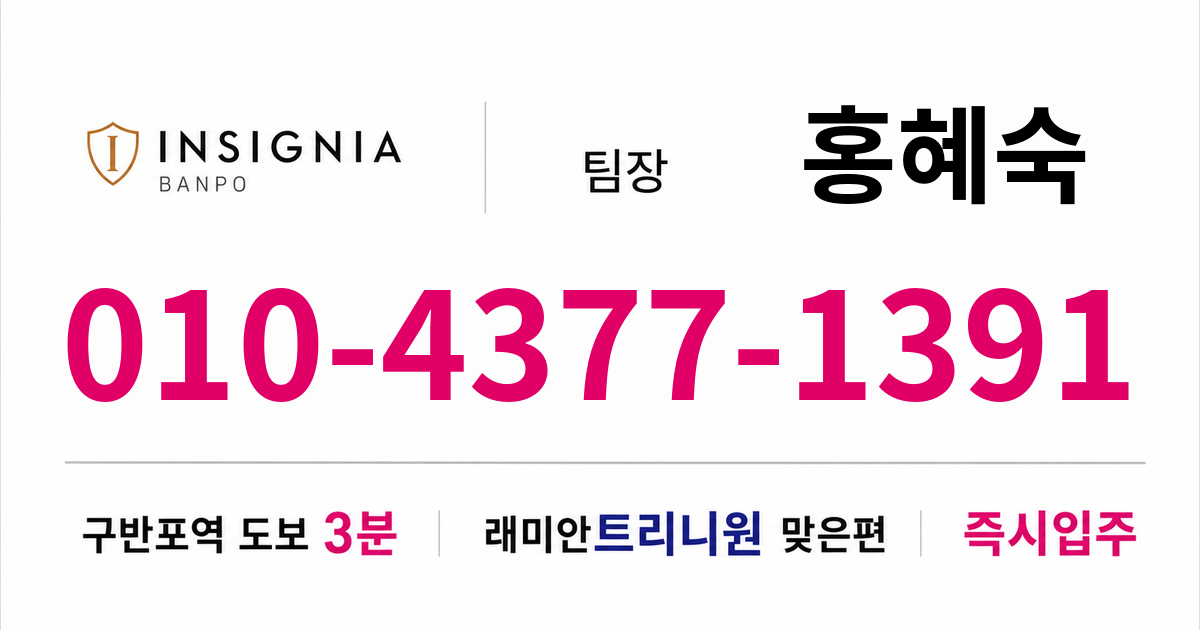
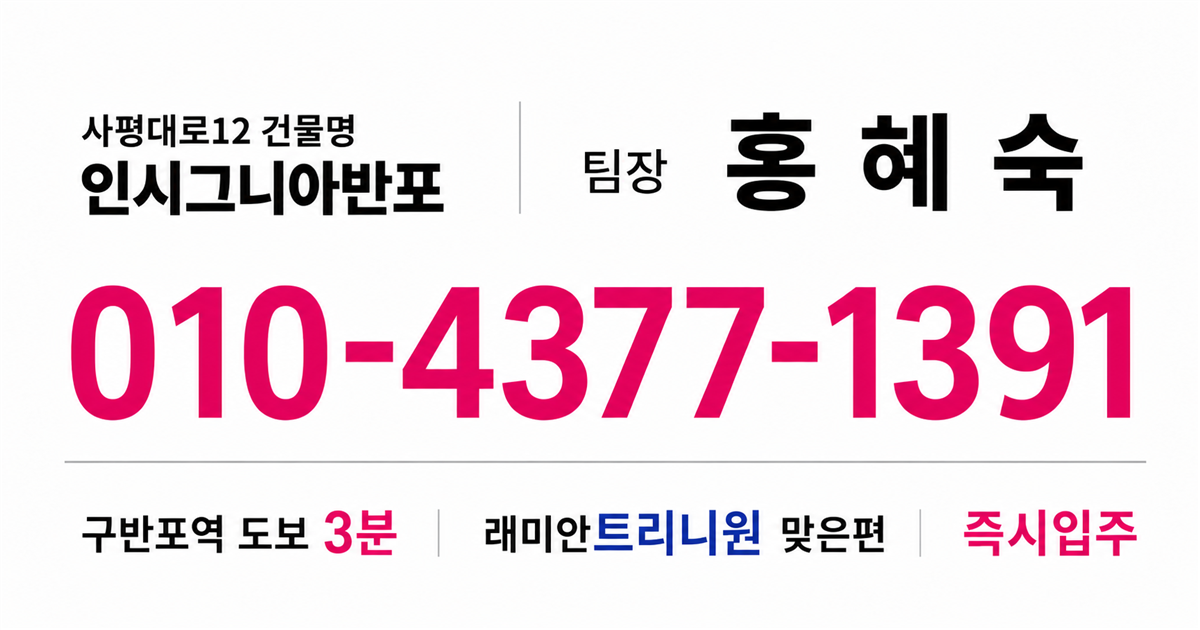
Standardize staff homecard headers and OG cards; preserve realtor cards

diff --git a/jangyoonjung/index.html b/jangyoonjung/index.html
@@ -8,7 +8,7 @@
 <meta property="og:type" content="website">
 <meta property="og:title" content="인시그니아 반포 | 장윤정 팀장">
 <meta property="og:description" content="반포 신축 3룸 아파텔 · 상세 정보 보기">
-<meta property="og:image" content="https://sanghoon0819.github.io/mobile-namecard/jangyoonjung/og-card-jangyoonjung.png">
+<meta property="og:image" content="https://homecard.kr/jangyoonjung/og-card-jangyoonjung.png?v=20261011-brand">
 <meta property="og:url" content="https://sanghoon0819.github.io/mobile-namecard/jangyoonjung/">
 
 <style>
@@ -31,8 +31,11 @@ body{
 .page{max-width:560px;margin:0 auto;background:#fff;min-height:100vh;box-shadow:0 0 28px rgba(0,0,0,.05)}
 .header{padding:18px 16px 14px;border-top:4px solid var(--bronze)}
 .brandrow{display:flex;align-items:flex-start;justify-content:space-between;gap:12px}
-.brand{font-weight:900;letter-spacing:2.4px;font-size:19px;line-height:1.05}
-.brand small{display:block;font-size:8px;letter-spacing:3.5px;color:#777;margin-top:4px}
+.brand{font-weight:900;letter-spacing:0;font-size:19px;line-height:1.25;white-space:nowrap}
+.brand small{display:block;font-size:11px;font-weight:600;letter-spacing:0;color:#777;margin-bottom:5px}
+.brandrow .person{flex-shrink:0}
+@media(max-width:390px){.brand{font-size:17px}.brand small{font-size:10px}}
+@media(max-width:340px){.brandrow{gap:10px}.brand{font-size:16px}.brandrow .phone{font-size:18px}}
 .person{text-align:right}
 .role{font-size:11px;font-weight:700;color:#333}
 .name{font-size:25px;font-weight:900;line-height:1.08;white-space:nowrap}
@@ -140,7 +143,7 @@ document.addEventListener('DOMContentLoaded',()=>{
 
 <section class="header">
   <div class="brandrow">
-    <div class="brand">INSIGNIA<small>BANPO</small></div>
+    <div class="brand"><small>사평대로12 건물명</small>인시그니아반포</div>
     <div class="person">
       <div class="role">팀장</div>
       <div class="name">장윤정</div>

diff --git a/parkhyunjoo/index.html b/parkhyunjoo/index.html
@@ -8,7 +8,7 @@
 <meta property="og:type" content="website">
 <meta property="og:title" content="인시그니아 반포 | 박현주 팀장">
 <meta property="og:description" content="반포 신축 3룸 아파텔 · 상세 정보 보기">
-<meta property="og:image" content="https://sanghoon0819.github.io/mobile-namecard/parkhyunjoo/og-card-parkhyunjoo.png">
+<meta property="og:image" content="https://homecard.kr/parkhyunjoo/og-card-parkhyunjoo.png?v=20261011-brand">
 <meta property="og:url" content="https://sanghoon0819.github.io/mobile-namecard/parkhyunjoo/">
 
 <style>
@@ -31,8 +31,11 @@ body{
 .page{max-width:560px;margin:0 auto;background:#fff;min-height:100vh;box-shadow:0 0 28px rgba(0,0,0,.05)}
 .header{padding:18px 16px 14px;border-top:4px solid var(--bronze)}
 .brandrow{display:flex;align-items:flex-start;justify-content:space-between;gap:12px}
-.brand{font-weight:900;letter-spacing:2.4px;font-size:19px;line-height:1.05}
-.brand small{display:block;font-size:8px;letter-spacing:3.5px;color:#777;margin-top:4px}
+.brand{font-weight:900;letter-spacing:0;font-size:19px;line-height:1.25;white-space:nowrap}
+.brand small{display:block;font-size:11px;font-weight:600;letter-spacing:0;color:#777;margin-bottom:5px}
+.brandrow .person{flex-shrink:0}
+@media(max-width:390px){.brand{font-size:17px}.brand small{font-size:10px}}
+@media(max-width:340px){.brandrow{gap:10px}.brand{font-size:16px}.brandrow .phone{font-size:18px}}
 .person{text-align:right}
 .role{font-size:11px;font-weight:700;color:#333}
 .name{font-size:25px;font-weight:900;line-height:1.08;white-space:nowrap}
@@ -140,7 +143,7 @@ document.addEventListener('DOMContentLoaded',()=>{
 
 <section class="header">
   <div class="brandrow">
-    <div class="brand">INSIGNIA<small>BANPO</small></div>
+    <div class="brand"><small>사평대로12 건물명</small>인시그니아반포</div>
     <div class="person">
       <div class="role">팀장</div>
       <div class="name">박현주</div>

diff --git a/yoonseohyun/index.html b/yoonseohyun/index.html
@@ -8,7 +8,7 @@
 <meta property="og:type" content="website">
 <meta property="og:title" content="인시그니아 반포 | 윤서현 팀장">
 <meta property="og:description" content="반포 신축 3룸 아파텔 · 상세 정보 보기">
-<meta property="og:image" content="https://sanghoon0819.github.io/mobile-namecard/yoonseohyun/og-card-yoonseohyun.png">
+<meta property="og:image" content="https://homecard.kr/yoonseohyun/og-card-yoonseohyun.png?v=20261011-brand">
 <meta property="og:url" content="https://sanghoon0819.github.io/mobile-namecard/yoonseohyun/">
 
 <style>
@@ -31,8 +31,11 @@ body{
 .page{max-width:560px;margin:0 auto;background:#fff;min-height:100vh;box-shadow:0 0 28px rgba(0,0,0,.05)}
 .header{padding:18px 16px 14px;border-top:4px solid var(--bronze)}
 .brandrow{display:flex;align-items:flex-start;justify-content:space-between;gap:12px}
-.brand{font-weight:900;letter-spacing:2.4px;font-size:19px;line-height:1.05}
-.brand small{display:block;font-size:8px;letter-spacing:3.5px;color:#777;margin-top:4px}
+.brand{font-weight:900;letter-spacing:0;font-size:19px;line-height:1.25;white-space:nowrap}
+.brand small{display:block;font-size:11px;font-weight:600;letter-spacing:0;color:#777;margin-bottom:5px}
+.brandrow .person{flex-shrink:0}
+@media(max-width:390px){.brand{font-size:17px}.brand small{font-size:10px}}
+@media(max-width:340px){.brandrow{gap:10px}.brand{font-size:16px}.brandrow .phone{font-size:18px}}
 .person{text-align:right}
 .role{font-size:11px;font-weight:700;color:#333}
 .name{font-size:25px;font-weight:900;line-height:1.08;white-space:nowrap}
@@ -140,7 +143,7 @@ document.addEventListener('DOMContentLoaded',()=>{
 
 <section class="header">
   <div class="brandrow">
-    <div class="brand">INSIGNIA<small>BANPO</small></div>
+    <div class="brand"><small>사평대로12 건물명</small>인시그니아반포</div>
     <div class="person">
       <div class="role">팀장</div>
       <div class="name">윤서현</div>

diff --git a/honghyesuk/index.html b/honghyesuk/index.html
@@ -8,7 +8,7 @@
 <meta property="og:type" content="website">
 <meta property="og:title" content="인시그니아 반포 | 홍혜숙 팀장">
 <meta property="og:description" content="반포 신축 3룸 아파텔 · 상세 정보 보기">
-<meta property="og:image" content="https://sanghoon0819.github.io/mobile-namecard/honghyesuk/og-card-honghyesuk.png">
+<meta property="og:image" content="https://homecard.kr/honghyesuk/og-card-honghyesuk.png?v=20261011-brand">
 <meta property="og:url" content="https://sanghoon0819.github.io/mobile-namecard/honghyesuk/">
 
 <style>
@@ -31,8 +31,11 @@ body{
 .page{max-width:560px;margin:0 auto;background:#fff;min-height:100vh;box-shadow:0 0 28px rgba(0,0,0,.05)}
 .header{padding:18px 16px 14px;border-top:4px solid var(--bronze)}
 .brandrow{display:flex;align-items:flex-start;justify-content:space-between;gap:12px}
-.brand{font-weight:900;letter-spacing:2.4px;font-size:19px;line-height:1.05}
-.brand small{display:block;font-size:8px;letter-spacing:3.5px;color:#777;margin-top:4px}
+.brand{font-weight:900;letter-spacing:0;font-size:19px;line-height:1.25;white-space:nowrap}
+.brand small{display:block;font-size:11px;font-weight:600;letter-spacing:0;color:#777;margin-bottom:5px}
+.brandrow .person{flex-shrink:0}
+@media(max-width:390px){.brand{font-size:17px}.brand small{font-size:10px}}
+@media(max-width:340px){.brandrow{gap:10px}.brand{font-size:16px}.brandrow .phone{font-size:18px}}
 .person{text-align:right}
 .role{font-size:11px;font-weight:700;color:#333}
 .name{font-size:25px;font-weight:900;line-height:1.08;white-space:nowrap}
@@ -140,7 +143,7 @@ document.addEventListener('DOMContentLoaded',()=>{
 
 <section class="header">
   <div class="brandrow">
-    <div class="brand">INSIGNIA<small>BANPO</small></div>
+    <div class="brand"><small>사평대로12 건물명</small>인시그니아반포</div>
     <div class="person">
       <div class="role">팀장</div>
       <div class="name">홍혜숙</div>

diff --git a/kimbokyeom/index.html b/kimbokyeom/index.html
@@ -8,7 +8,7 @@
 <meta property="og:type" content="website">
 <meta property="og:title" content="인시그니아 반포 | 김보겸 팀장">
 <meta property="og:description" content="반포 신축 3룸 아파텔 · 상세 정보 보기">
-<meta property="og:image" content="https://sanghoon0819.github.io/mobile-namecard/kimbokyeom/og-card-kimbokyeom.png">
+<meta property="og:image" content="https://homecard.kr/kimbokyeom/og-card-kimbokyeom.png?v=20261011-brand">
 <meta property="og:url" content="https://sanghoon0819.github.io/mobile-namecard/kimbokyeom/">
 
 <style>
@@ -31,8 +31,11 @@ body{
 .page{max-width:560px;margin:0 auto;background:#fff;min-height:100vh;box-shadow:0 0 28px rgba(0,0,0,.05)}
 .header{padding:18px 16px 14px;border-top:4px solid var(--bronze)}
 .brandrow{display:flex;align-items:flex-start;justify-content:space-between;gap:12px}
-.brand{font-weight:900;letter-spacing:2.4px;font-size:19px;line-height:1.05}
-.brand small{display:block;font-size:8px;letter-spacing:3.5px;color:#777;margin-top:4px}
+.brand{font-weight:900;letter-spacing:0;font-size:19px;line-height:1.25;white-space:nowrap}
+.brand small{display:block;font-size:11px;font-weight:600;letter-spacing:0;color:#777;margin-bottom:5px}
+.brandrow .person{flex-shrink:0}
+@media(max-width:390px){.brand{font-size:17px}.brand small{font-size:10px}}
+@media(max-width:340px){.brandrow{gap:10px}.brand{font-size:16px}.brandrow .phone{font-size:18px}}
 .person{text-align:right}
 .role{font-size:11px;font-weight:700;color:#333}
 .name{font-size:25px;font-weight:900;line-height:1.08;white-space:nowrap}
@@ -140,7 +143,7 @@ document.addEventListener('DOMContentLoaded',()=>{
 
 <section class="header">
   <div class="brandrow">
-    <div class="brand">INSIGNIA<small>BANPO</small></div>
+    <div class="brand"><small>사평대로12 건물명</small>인시그니아반포</div>
     <div class="person">
       <div class="role">팀장</div>
       <div class="name">김보겸</div>

diff --git a/kimseohyun/index.html b/kimseohyun/index.html
@@ -8,7 +8,7 @@
 <meta property="og:type" content="website">
 <meta property="og:title" content="인시그니아 반포 | 김서현 팀장">
 <meta property="og:description" content="반포 신축 3룸 아파텔 · 상세 정보 보기">
-<meta property="og:image" content="https://sanghoon0819.github.io/mobile-namecard/kimseohyun/og-card-kimseohyun.png">
+<meta property="og:image" content="https://homecard.kr/kimseohyun/og-card-kimseohyun.png?v=20261011-brand">
 <meta property="og:url" content="https://sanghoon0819.github.io/mobile-namecard/kimseohyun/">
 
 <style>
@@ -31,8 +31,11 @@ body{
 .page{max-width:560px;margin:0 auto;background:#fff;min-height:100vh;box-shadow:0 0 28px rgba(0,0,0,.05)}
 .header{padding:18px 16px 14px;border-top:4px solid var(--bronze)}
 .brandrow{display:flex;align-items:flex-start;justify-content:space-between;gap:12px}
-.brand{font-weight:900;letter-spacing:2.4px;font-size:19px;line-height:1.05}
-.brand small{display:block;font-size:8px;letter-spacing:3.5px;color:#777;margin-top:4px}
+.brand{font-weight:900;letter-spacing:0;font-size:19px;line-height:1.25;white-space:nowrap}
+.brand small{display:block;font-size:11px;font-weight:600;letter-spacing:0;color:#777;margin-bottom:5px}
+.brandrow .person{flex-shrink:0}
+@media(max-width:390px){.brand{font-size:17px}.brand small{font-size:10px}}
+@media(max-width:340px){.brandrow{gap:10px}.brand{font-size:16px}.brandrow .phone{font-size:18px}}
 .person{text-align:right}
 .role{font-size:11px;font-weight:700;color:#333}
 .name{font-size:25px;font-weight:900;line-height:1.08;white-space:nowrap}
@@ -140,7 +143,7 @@ document.addEventListener('DOMContentLoaded',()=>{
 
 <section class="header">
   <div class="brandrow">
-    <div class="brand">INSIGNIA<small>BANPO</small></div>
+    <div class="brand"><small>사평대로12 건물명</small>인시그니아반포</div>
     <div class="person">
       <div class="role">팀장</div>
       <div class="name">김서현</div>

diff --git a/songjaebak/index.html b/songjaebak/index.html
@@ -8,7 +8,7 @@
 <meta property="og:type" content="website">
 <meta property="og:title" content="인시그니아 반포 | 송재박 팀장">
 <meta property="og:description" content="반포 신축 3룸 아파텔 · 상세 정보 보기">
-<meta property="og:image" content="https://sanghoon0819.github.io/mobile-namecard/songjaebak/og-card-songjaebak.png">
+<meta property="og:image" content="https://homecard.kr/songjaebak/og-card-songjaebak.png?v=20261011-brand">
 <meta property="og:url" content="https://sanghoon0819.github.io/mobile-namecard/songjaebak/">
 
 <style>
@@ -31,8 +31,11 @@ body{
 .page{max-width:560px;margin:0 auto;background:#fff;min-height:100vh;box-shadow:0 0 28px rgba(0,0,0,.05)}
 .header{padding:18px 16px 14px;border-top:4px solid var(--bronze)}
 .brandrow{display:flex;align-items:flex-start;justify-content:space-between;gap:12px}
-.brand{font-weight:900;letter-spacing:2.4px;font-size:19px;line-height:1.05}
-.brand small{display:block;font-size:8px;letter-spacing:3.5px;color:#777;margin-top:4px}
+.brand{font-weight:900;letter-spacing:0;font-size:19px;line-height:1.25;white-space:nowrap}
+.brand small{display:block;font-size:11px;font-weight:600;letter-spacing:0;color:#777;margin-bottom:5px}
+.brandrow .person{flex-shrink:0}
+@media(max-width:390px){.brand{font-size:17px}.brand small{font-size:10px}}
+@media(max-width:340px){.brandrow{gap:10px}.brand{font-size:16px}.brandrow .phone{font-size:18px}}
 .person{text-align:right}
 .role{font-size:11px;font-weight:700;color:#333}
 .name{font-size:25px;font-weight:900;line-height:1.08;white-space:nowrap}
@@ -140,7 +143,7 @@ document.addEventListener('DOMContentLoaded',()=>{
 
 <section class="header">
   <div class="brandrow">
-    <div class="brand">INSIGNIA<small>BANPO</small></div>
+    <div class="brand"><small>사평대로12 건물명</small>인시그니아반포</div>
     <div class="person">
       <div class="role">팀장</div>
       <div class="name">송재박</div>

diff --git a/kimminseo/index.html b/kimminseo/index.html
@@ -8,7 +8,7 @@
 <meta property="og:type" content="website">
 <meta property="og:title" content="인시그니아 반포 | 김민서 팀장">
 <meta property="og:description" content="반포 신축 3룸 아파텔 · 상세 정보 보기">
-<meta property="og:image" content="https://sanghoon0819.github.io/mobile-namecard/kimminseo/og-card-kimminseo.png">
+<meta property="og:image" content="https://homecard.kr/kimminseo/og-card-kimminseo.png?v=20261011-brand">
 <meta property="og:url" content="https://sanghoon0819.github.io/mobile-namecard/kimminseo/">
 
 <style>
@@ -31,8 +31,11 @@ body{
 .page{max-width:560px;margin:0 auto;background:#fff;min-height:100vh;box-shadow:0 0 28px rgba(0,0,0,.05)}
 .header{padding:18px 16px 14px;border-top:4px solid var(--bronze)}
 .brandrow{display:flex;align-items:flex-start;justify-content:space-between;gap:12px}
-.brand{font-weight:900;letter-spacing:2.4px;font-size:19px;line-height:1.05}
-.brand small{display:block;font-size:8px;letter-spacing:3.5px;color:#777;margin-top:4px}
+.brand{font-weight:900;letter-spacing:0;font-size:19px;line-height:1.25;white-space:nowrap}
+.brand small{display:block;font-size:11px;font-weight:600;letter-spacing:0;color:#777;margin-bottom:5px}
+.brandrow .person{flex-shrink:0}
+@media(max-width:390px){.brand{font-size:17px}.brand small{font-size:10px}}
+@media(max-width:340px){.brandrow{gap:10px}.brand{font-size:16px}.brandrow .phone{font-size:18px}}
 .person{text-align:right}
 .role{font-size:11px;font-weight:700;color:#333}
 .name{font-size:25px;font-weight:900;line-height:1.08;white-space:nowrap}
@@ -140,7 +143,7 @@ document.addEventListener('DOMContentLoaded',()=>{
 
 <section class="header">
   <div class="brandrow">
-    <div class="brand">INSIGNIA<small>BANPO</small></div>
+    <div class="brand"><small>사평대로12 건물명</small>인시그니아반포</div>
     <div class="person">
       <div class="role">팀장</div>
       <div class="name">김민서</div>

diff --git a/choiyounghyuk2/index.html b/choiyounghyuk2/index.html
@@ -8,7 +8,7 @@
 <meta property="og:type" content="website">
 <meta property="og:title" content="인시그니아 반포 | 최영혁 본부장">
 <meta property="og:description" content="반포 신축 3룸 아파텔 · 상세 정보 보기">
-<meta property="og:image" content="https://homecard.kr/choiyounghyuk2/og-card-choiyounghyuk2.png">
+<meta property="og:image" content="https://homecard.kr/choiyounghyuk2/og-card-choiyounghyuk2.png?v=20261011-brand">
 <meta property="og:url" content="https://homecard.kr/choiyounghyuk2/">
 
 <style>
@@ -31,8 +31,11 @@ body{
 .page{max-width:560px;margin:0 auto;background:#fff;min-height:100vh;box-shadow:0 0 28px rgba(0,0,0,.05)}
 .header{padding:18px 16px 14px;border-top:4px solid var(--bronze)}
 .brandrow{display:flex;align-items:flex-start;justify-content:space-between;gap:12px}
-.brand{font-weight:900;letter-spacing:2.4px;font-size:19px;line-height:1.05}
-.brand small{display:block;font-size:8px;letter-spacing:3.5px;color:#777;margin-top:4px}
+.brand{font-weight:900;letter-spacing:0;font-size:19px;line-height:1.25;white-space:nowrap}
+.brand small{display:block;font-size:11px;font-weight:600;letter-spacing:0;color:#777;margin-bottom:5px}
+.brandrow .person{flex-shrink:0}
+@media(max-width:390px){.brand{font-size:17px}.brand small{font-size:10px}}
+@media(max-width:340px){.brandrow{gap:10px}.brand{font-size:16px}.brandrow .phone{font-size:18px}}
 .person{text-align:right}
 .role{font-size:11px;font-weight:700;color:#333}
 .name{font-size:25px;font-weight:900;line-height:1.08;white-space:nowrap}
@@ -140,7 +143,7 @@ document.addEventListener('DOMContentLoaded',()=>{
 
 <section class="header">
   <div class="brandrow">
-    <div class="brand">INSIGNIA<small>BANPO</small></div>
+    <div class="brand"><small>사평대로12 건물명</small>인시그니아반포</div>
     <div class="person">
       <div class="role">본부장</div>
       <div class="name">최영혁</div>

diff --git a/jungmiryoung/index.html b/jungmiryoung/index.html
@@ -8,7 +8,7 @@
 <meta property="og:type" content="website">
 <meta property="og:title" content="인시그니아 반포 | 정미령 팀장">
 <meta property="og:description" content="반포 신축 3룸 아파텔 · 상세 정보 보기">
-<meta property="og:image" content="https://homecard.kr/jungmiryoung/og-card-jungmiryoung.png">
+<meta property="og:image" content="https://homecard.kr/jungmiryoung/og-card-jungmiryoung.png?v=20261011-brand">
 <meta property="og:url" content="https://homecard.kr/jungmiryoung/">
 
 <style>
@@ -31,8 +31,11 @@ body{
 .page{max-width:560px;margin:0 auto;background:#fff;min-height:100vh;box-shadow:0 0 28px rgba(0,0,0,.05)}
 .header{padding:18px 16px 14px;border-top:4px solid var(--bronze)}
 .brandrow{display:flex;align-items:flex-start;justify-content:space-between;gap:12px}
-.brand{font-weight:900;letter-spacing:2.4px;font-size:19px;line-height:1.05}
-.brand small{display:block;font-size:8px;letter-spacing:3.5px;color:#777;margin-top:4px}
+.brand{font-weight:900;letter-spacing:0;font-size:19px;line-height:1.25;white-space:nowrap}
+.brand small{display:block;font-size:11px;font-weight:600;letter-spacing:0;color:#777;margin-bottom:5px}
+.brandrow .person{flex-shrink:0}
+@media(max-width:390px){.brand{font-size:17px}.brand small{font-size:10px}}
+@media(max-width:340px){.brandrow{gap:10px}.brand{font-size:16px}.brandrow .phone{font-size:18px}}
 .person{text-align:right}
 .role{font-size:11px;font-weight:700;color:#333}
 .name{font-size:25px;font-weight:900;line-height:1.08;white-space:nowrap}
@@ -140,7 +143,7 @@ document.addEventListener('DOMContentLoaded',()=>{
 
 <section class="header">
   <div class="brandrow">
-    <div class="brand">INSIGNIA<small>BANPO</small></div>
+    <div class="brand"><small>사평대로12 건물명</small>인시그니아반포</div>
     <div class="person">
       <div class="role">팀장</div>
       <div class="name">정미령</div>

diff --git a/leegiryong/index.html b/leegiryong/index.html
@@ -8,7 +8,7 @@
 <meta property="og:type" content="website">
 <meta property="og:title" content="인시그니아 반포 | 이기룡 본부장">
 <meta property="og:description" content="반포 신축 3룸 아파텔 · 상세 정보 보기">
-<meta property="og:image" content="https://homecard.kr/leegiryong/og-card-leegiryong.png">
+<meta property="og:image" content="https://homecard.kr/leegiryong/og-card-leegiryong.png?v=20261011-brand">
 <meta property="og:url" content="https://homecard.kr/leegiryong/">
 
 <style>
@@ -31,8 +31,11 @@ body{
 .page{max-width:560px;margin:0 auto;background:#fff;min-height:100vh;box-shadow:0 0 28px rgba(0,0,0,.05)}
 .header{padding:18px 16px 14px;border-top:4px solid var(--bronze)}
 .brandrow{display:flex;align-items:flex-start;justify-content:space-between;gap:12px}
-.brand{font-weight:900;letter-spacing:2.4px;font-size:19px;line-height:1.05}
-.brand small{display:block;font-size:8px;letter-spacing:3.5px;color:#777;margin-top:4px}
+.brand{font-weight:900;letter-spacing:0;font-size:19px;line-height:1.25;white-space:nowrap}
+.brand small{display:block;font-size:11px;font-weight:600;letter-spacing:0;color:#777;margin-bottom:5px}
+.brandrow .person{flex-shrink:0}
+@media(max-width:390px){.brand{font-size:17px}.brand small{font-size:10px}}
+@media(max-width:340px){.brandrow{gap:10px}.brand{font-size:16px}.brandrow .phone{font-size:18px}}
 .person{text-align:right}
 .role{font-size:11px;font-weight:700;color:#333}
 .name{font-size:25px;font-weight:900;line-height:1.08;white-space:nowrap}
@@ -140,7 +143,7 @@ document.addEventListener('DOMContentLoaded',()=>{
 
 <section class="header">
   <div class="brandrow">
-    <div class="brand">INSIGNIA<small>BANPO</small></div>
+    <div class="brand"><small>사평대로12 건물명</small>인시그니아반포</div>
     <div class="person">
       <div class="role">본부장</div>
       <div class="name">이기룡</div>

diff --git a/index.html b/index.html
@@ -8,7 +8,7 @@
 <meta property="og:type" content="website">
 <meta property="og:title" content="인시그니아 반포 | 김지혜 팀장">
 <meta property="og:description" content="구반포역 도보 3분 · 래미안트리니원 맞은편 · 즉시입주 · 상담 010-3667-1245">
-<meta property="og:image" content="https://sanghoon0819.github.io/mobile-namecard/og-card-v2.png">
+<meta property="og:image" content="https://homecard.kr/og-card-v2.png?v=20261011-brand">
 <meta property="og:url" content="https://sanghoon0819.github.io/mobile-namecard/">
 <style>
 :root{--bronze:#B9792A;--ink:#111;--sub:#666;--bg:#F6F3EE;--line:#E6E0D8;--pink:#D91B73;--navy:#17366D}
